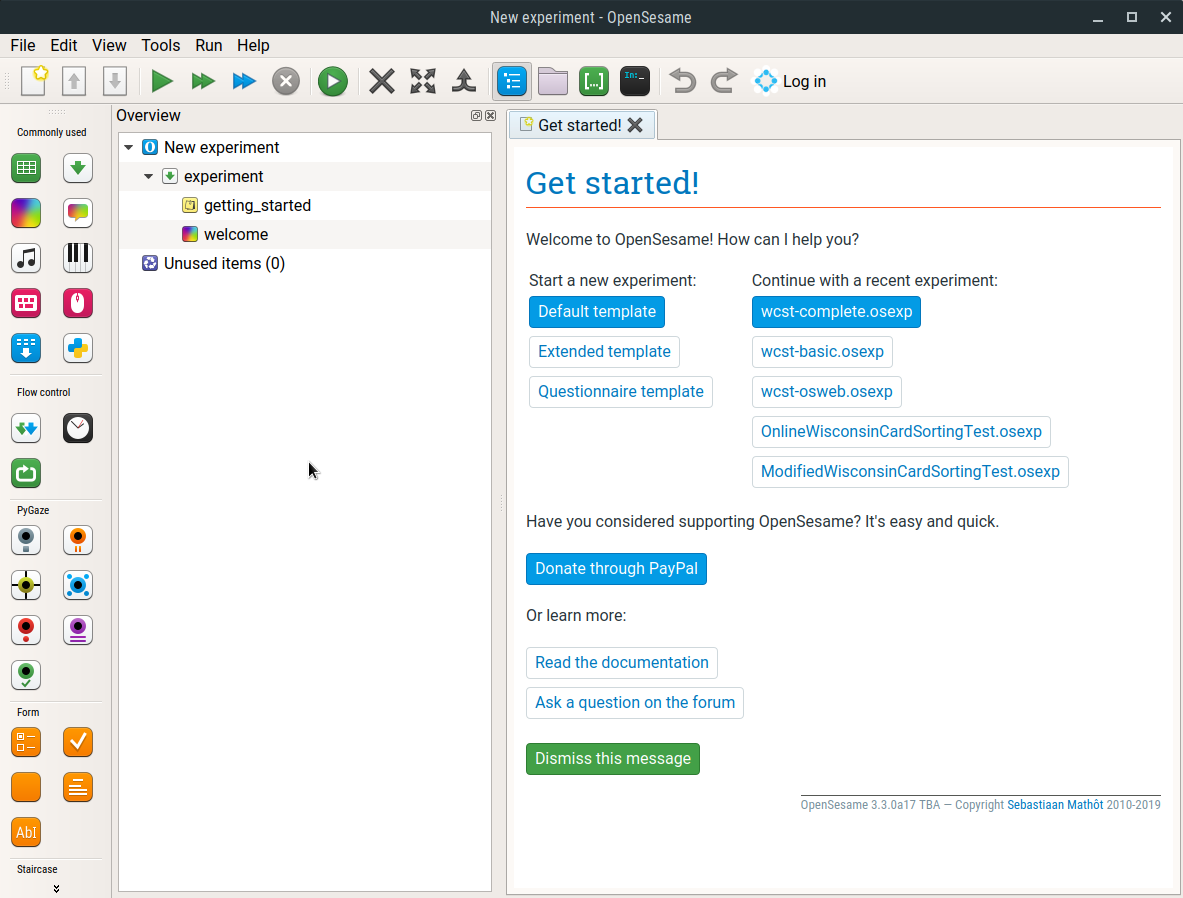
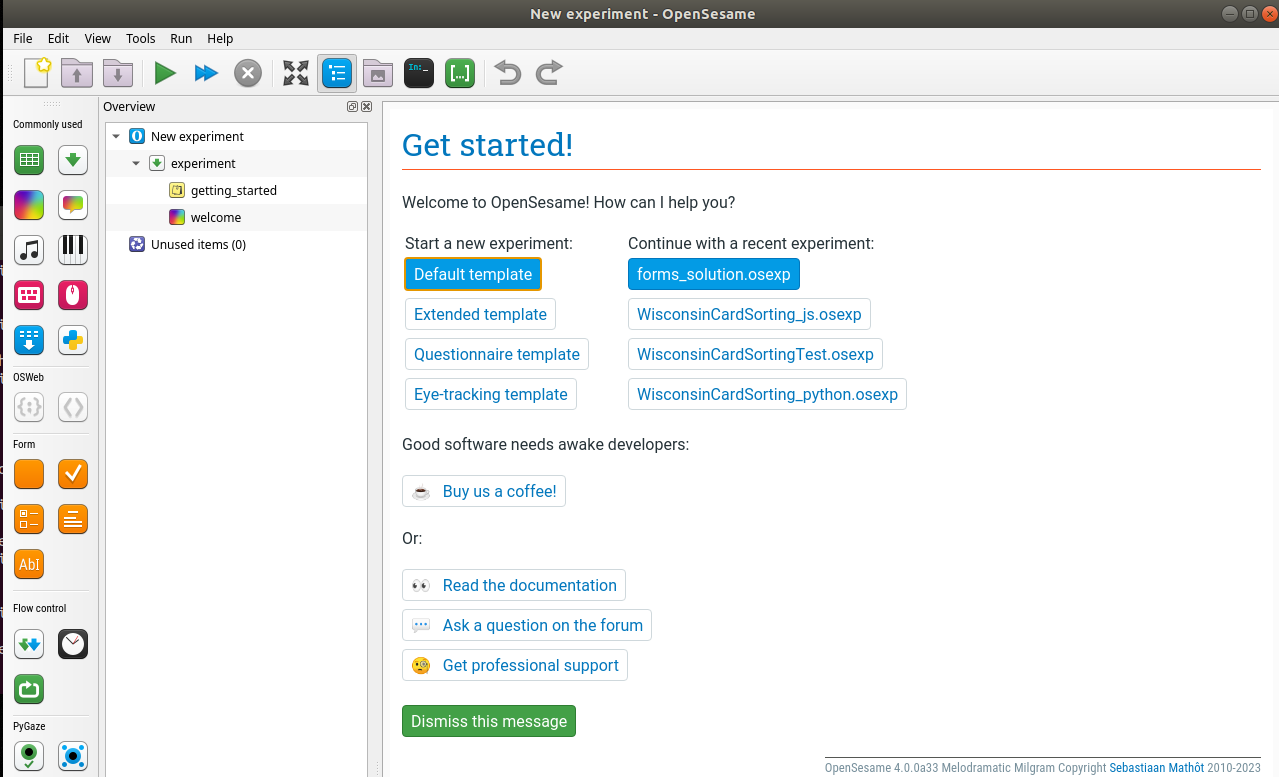
update the wcst tutorials to OS4

diff --git a/content/pages/tutorials/wcst.md b/content/pages/tutorials/wcst.md
@@ -28,7 +28,7 @@ To make things more difficult, the matching rule changes after every five correc
 
 ### Step 1: Download and start OpenSesame
 
-OpenSesame is available for Windows, Linux, and Mac OS. This tutorial is written for OpenSesame 3.2 or higher.
+OpenSesame is available for Windows, Linux, and Mac OS. This tutorial is written for OpenSesame 4.0 or higher.
 
 When you start OpenSesame, you will be given a choice of template experiments, and (if any) a list of recently opened experiments (see %FigStartUp).
 
@@ -61,7 +61,7 @@ A LOOP item needs another item to run; usually, and in this case as well, this i
 
 By default, items have names such as *new_sequence*, *new_loop*, *new_sequence_2*, etc. These names are not very informative, and it is good practice to rename them. Item names must consist of alphanumeric characters and/ or underscores. To rename an item, double-click on the item in the overview area. Rename *new_sequence* to *trial_sequence* to indicate that it will correspond to a single trial. Rename *new_loop* to *block_loop* to indicate that will correspond to a block of trials.
 
-Finally, click on 'New experiment'to open the General Properties tab. Click on the title of the experiment, and rename it to 'Wisconsin Card Sorting Test'.
+Finally, click on 'New experiment' to open the General Properties tab. Click on the title of the experiment, and rename it to 'Wisconsin Card Sorting Test'.
 
 The overview area of our experiment now looks as in %FigBasicStructure.
 
@@ -97,7 +97,7 @@ figure:
 
 To start with, we'll create a display with four stimulus cards and one response card. However, which cards are shown will not, for now, depend on variables; that is, we will create a *static* display.
 
-Drag a a SKETCHPAD into *trial_sequence*, and rename it to *card_display*. Use the image tool to draw four cards in a horizontal row somewhere near the top of the display; these will be the stimulus cards. Draw a single card near the bottom of the display; this will be the response card. Also add some text to indicate to the participant what he or she has to do, namely press `a`, `b`, `c`, or `d` to indicate which of the stimulus cards matches the response card. The exact text, layout, and cards are up to you! Tips: you can use the *scale* option to adjust the size of the cards; you can change the background color in the General Properties tab, which you can open by clicking on the top-level item of the experiment.
+Drag a SKETCHPAD into *trial_sequence*, and rename it to *card_display*. Use the image tool to draw four cards in a horizontal row somewhere near the top of the display; these will be the stimulus cards. Draw a single card near the bottom of the display; this will be the response card. Also add some text to indicate to the participant what he or she has to do, namely press `a`, `b`, `c`, or `d` to indicate which of the stimulus cards matches the response card. The exact text, layout, and cards are up to you! Tips: you can use the *scale* option to adjust the size of the cards; you can change the background color in the General Properties tab, which you can open by clicking on the top-level item of the experiment.
 
 For me, the result looks like this:
 
@@ -149,11 +149,11 @@ The script for *card_display* mostly consists of `draw` commands, which define e
 draw image center=1 file="1-blue-triangle.png" scale=0.5 show_if=always x=0 y=192 z_index=0
 ```
 
-Right now, in my example, the image file for the response card is always `"1-blue-triangle.png"`. But of course we don't always want to show a single blue triangle. Instead, we want to have the image file depend on the variables that we have defined in the *block_loop*. To do so, replace the number by `[response_number]`, the color by `[response_color]`, and the shape by `[response_shape]`: (The square brackets indicate that these refer to names of variables.)
+Right now, in my example, the image file for the response card is always `"1-blue-triangle.png"`. But of course we don't always want to show a single blue triangle. Instead, we want to have the image file depend on the variables that we have defined in the *block_loop*. To do so, replace the number by `{response_number}`, the color by `{response_color}`, and the shape by `{response_shape}`: (The curly brackets indicate that these refer to names of variables.)
 
 
 ```
-draw image center=1 file="[response_number]-[response_color]-[response_shape].png" scale=0.5 show_if=always x=0 y=192 z_index=0
+draw image center=1 file="{response_number}-{response_color}-{response_shape}.png" scale=0.5 show_if=always x=0 y=192 z_index=0
 ```
 
 Click on Apply to accept the changes to the script. The response card has now been replaced by a question-mark icon. This is because OpenSesame doesn't know how to show a preview of an image that has been defined using variables. But don't worry: the image will be shown when you run the experiment!
@@ -211,7 +211,7 @@ But this is not enough! Right now there's a single response item that assumes th
 
 To accomplish this, first create three more KEYBOARD_RESPONSE items: *press_b*, *press_c*, and *press_d*. These are all the same, except for the correct response, which is defined for each of them separately and should be respectively 'b', 'c', and 'd'.
 
-Finally, in the *trial_sequence*, use Run If statements to decide under which condition each of the four KEYBOARD_RESPONSE items should be executed (thus deciding what the correct response is). For *press_a*, the condition is that `shape1` should be equal to `response_shape`. Why? Well, because that means that the shape of the first stimulus card is equal to the shape of the response card, and in that case the correct response is 'a'. This condition corresponds to the following run-if statement: `[shape1] = [response_shape]`. The run-if statements for the other KEYBOARD_RESPONSE items are analogous (see %FigTrialSequence1).
+Finally, in the *trial_sequence*, use Run If statements to decide under which condition each of the four KEYBOARD_RESPONSE items should be executed (thus deciding what the correct response is). For *press_a*, the condition is that `shape1` should be equal to `response_shape`. Why? Well, because that means that the shape of the first stimulus card is equal to the shape of the response card, and in that case the correct response is 'a'. This condition corresponds to the following run-if statement: `shape1 = response_shape`. The run-if statements for the other KEYBOARD_RESPONSE items are analogous (see %FigTrialSequence1).
 
 
 %--
@@ -247,16 +247,7 @@ Finally, add some useful content to both SKETCHPADs. For example, for *correct_f
 You have now created a basic (but incomplete!) implementation of the Wisconsin Card Sorting Test. (You will complete the implementation as part of the Extra Assignments below.)
 
 
-%--
-figure:
- id: FigRunButtons
- source: run-buttons.png
- caption: |
-  The main toolbar contains buttons to (from left to right): run fullscreen, run in a window, quick-run (run in a window without asking for log file or participant numebr ), abort the experiment, and run in a browser.
---%
-
-
-To test the experiment, click on the quick-run button (the blue double arrows) to test the experiment on the desktop (see %FigRunButtons). If the experiment runs as expected on the desktop, click on the run-in-browser button (the arrow inside a green circle) to test the experiment in a browser.
+To test the experiment, you click either on the quick-run button (the blue double arrows) or the Run in fullscreen button (the green arrow).
 
 
 ## Extra assignments
@@ -280,14 +271,12 @@ __Pro-tip:__ Set the repeat value of the *block_loop* to 0.1 to reduce the numbe
 
 ### Extra 3 (easy): Add instructions and goodbye screen
 
-A good experiment comes with clear instructions. And a polite experiment says goodbye to the participants when they are done. You can use a SKETCHPAD to do this.
-
-__Pro-tip:__ A FORM_TEXT_DISPLAY is not compatible with OSWeb, so you should not use it for instructions if you want to run your experiment online.
-
+A good experiment comes with clear instructions. And a polite experiment says goodbye to the participants when they are done. You can use a SKETCHPAD or a FORM_TEXT_DISPLAY to do this.
 
 ### Extra 4 (medium): Set the correct response and matching rule through JavaScript
 
-To include scripting in OSWeb, you can use the INLINE_JAVASCRIPT item, which supports JavaScript. (But it does not currently provide all the functionality that is offered by the regular Python INLINE_SCRIPT!)
+To include scripting in OSWeb, you can use the INLINE_JAVASCRIPT item, which supports JavaScript. (But it does not currently provide all the functionality that is offered by the regular Python INLINE_SCRIPT!). See
+[here](https://osdoc.cogsci.nl/4.0/manual/javascript/about/) for details.
 
 So far, the matching rule is always to match by shape. To change this, add an INLINE_JAVASCRIPT item to the start of the experiment, and use the following script (in the *prepare* phase) to randomly set the variable `matching_rule` to 'shape', 'number', or 'color'.
 
@@ -295,14 +284,14 @@ So far, the matching rule is always to match by shape. To change this, add an IN
 function choice(choices) {
     // JavaScript does not have a built-in choice function, so we define it
     // here.
+    // use let to introduce a temporary new variable
     let index = Math.floor(Math.random() * choices.length)
     return choices[index]
 }
 
 
-// The vars object contains all experimental variables, like the var object
-// in Python inline script
-vars.matching_rule = choice(['shape', 'number', 'color'])
+// use var to introduce a global new variable
+var matching_rule = choice(['shape', 'number', 'color'])
 ```
 
 Now add another INLINE_JAVASCRIPT item to the start of the *trial_sequence*. In the *prepare* phase, add a script to set the `correct_response` variable to 'a', 'b', 'c', or 'd'. To do so, you need a series of `if` statements, that first look at the matching rule, and then look at which shape corresponds to the response shape (for the shape-matching rule) or which color corresponds to the response color (for the color-matching rule) etc.
@@ -310,14 +299,14 @@ Now add another INLINE_JAVASCRIPT item to the start of the *trial_sequence*. In 
 To get started, here's part of the solution (but it needs to be completed!):
 
 ```javascript
-if (vars.matching_rule === 'shape') {
-    if (vars.shape1 === vars.response_shape) vars.correct_response = 'a'
+if (matching_rule === 'shape') {
+    if (shape1 === response_shape) correct_response = 'a'
     // Not done yet
 } // Not done yet
 
 // Let's print some info to the debug window
-console.log('matching_rule = ' + vars.matching_rule)
-console.log('correct_response = ' + vars.correct_response)
+console.log('matching_rule = ' + matching_rule)
+console.log('correct_response = ' + correct_response)
 ```
 
 
@@ -340,9 +329,10 @@ This one is up to you. No pointers this time!
 
 ### Extra 7 (easy): Running the experiment online with JATOS
 
-Our WCST is compatible with OSWeb, which means that you can run it in a browser. To test if this still works, you can click on the run-in-browser button in OpenSesame.
+Our WCST is compatible with OSWeb, which means that you can run it in a browser. To test if this still works, you can select the OSWeb backend in the general properties tab of the experiment item. Once selected, 
+you can simply click the green button and the experiment will start in your default browser.
 
-However, to collect actual data with the experiment in a browser, you need to import the experiment into JATOS, and use JATOS to generate a link that you can distribute to your participants. This is much easier than it sounds! For more information, see:
+However, to collect actual data for one of your studies, you will want to import the experiment into JATOS, and use JATOS to generate a link that you can distribute to your participants. This is much easier than it sounds! For more information, see:
 
 - %link:manual/osweb/workflow%
 

diff --git a/content/pages/tutorials/wcst-python.md b/content/pages/tutorials/wcst-python.md
@@ -28,7 +28,7 @@ To make things more difficult, the matching rule changes after every five correc
 
 ### Step 1: Download and start OpenSesame
 
-OpenSesame is available for Windows, Linux, and Mac OS. This tutorial is written for OpenSesame 3.2 or higher.
+OpenSesame is available for Windows, Linux, and Mac OS. This tutorial is written for OpenSesame 4.0 or higher.
 
 When you start OpenSesame, you will be given a choice of template experiments, and (if any) a list of recently opened experiments (see %FigStartUp).
 
@@ -61,7 +61,7 @@ A LOOP item needs another item to run; usually, and in this case as well, this i
 
 By default, items have names such as *new_sequence*, *new_loop*, *new_sequence_2*, etc. These names are not very informative, and it is good practice to rename them. Item names must consist of alphanumeric characters and/ or underscores. To rename an item, double-click on the item in the overview area. Rename *new_sequence* to *trial_sequence* to indicate that it will correspond to a single trial. Rename *new_loop* to *block_loop* to indicate that will correspond to a block of trials.
 
-Finally, click on 'New experiment'to open the General Properties tab. Click on the title of the experiment, and rename it to 'Wisconsin Card Sorting Test'.
+Finally, click on 'New experiment' to open the General Properties tab. Click on the title of the experiment, and rename it to 'Wisconsin Card Sorting Test'.
 
 The overview area of our experiment now looks as in %FigBasicStructure.
 
@@ -97,7 +97,7 @@ figure:
 
 To start with, we'll create a display with four stimulus cards and one response card. However, which cards are shown will not, for now, depend on variables; that is, we will create a *static* display.
 
-Drag a a SKETCHPAD into *trial_sequence*, and rename it to *card_display*. Use the image tool to draw four cards in a horizontal row somewhere near the top of the display; these will be the stimulus cards. Draw a single card near the bottom of the display; this will be the response card. Also add some text to indicate to the participant what he or she has to do, namely press `a`, `b`, `c`, or `d` to indicate which of the stimulus cards matches the response card. The exact text, layout, and cards are up to you! Tips: you can use the *scale* option to adjust the size of the cards; you can change the background color in the General Properties tab, which you can open by clicking on the top-level item of the experiment.
+Drag a SKETCHPAD into *trial_sequence*, and rename it to *card_display*. Use the image tool to draw four cards in a horizontal row somewhere near the top of the display; these will be the stimulus cards. Draw a single card near the bottom of the display; this will be the response card. Also add some text to indicate to the participant what he or she has to do, namely press `a`, `b`, `c`, or `d` to indicate which of the stimulus cards matches the response card. The exact text, layout, and cards are up to you! Tips: you can use the *scale* option to adjust the size of the cards; you can change the background color in the General Properties tab, which you can open by clicking on the top-level item of the experiment.
 
 For me, the result looks like this:
 
@@ -149,11 +149,11 @@ The script for *card_display* mostly consists of `draw` commands, which define e
 draw image center=1 file="1-blue-triangle.png" scale=0.5 show_if=always x=0 y=192 z_index=0
 ```
 
-Right now, in my example, the image file for the response card is always `"1-blue-triangle.png"`. But of course we don't always want to show a single blue triangle. Instead, we want to have the image file depend on the variables that we have defined in the *block_loop*. To do so, replace the number by `[response_number]`, the color by `[response_color]`, and the shape by `[response_shape]`: (The square brackets indicate that these refer to names of variables.)
+Right now, in my example, the image file for the response card is always `"1-blue-triangle.png"`. But of course we don't always want to show a single blue triangle. Instead, we want to have the image file depend on the variables that we have defined in the *block_loop*. To do so, replace the number by `{response_number}`, the color by `{response_color}`, and the shape by `{response_shape}`: (The square brackets indicate that these refer to names of variables.)
 
 
 ```
-draw image center=1 file="[response_number]-[response_color]-[response_shape].png" scale=0.5 show_if=always x=0 y=192 z_index=0
+draw image center=1 file="{response_number}-{response_color}-{response_shape}.png" scale=0.5 show_if=always x=0 y=192 z_index=0
 ```
 
 Click on Apply to accept the changes to the script. The response card has now been replaced by a question-mark icon. This is because OpenSesame doesn't know how to show a preview of an image that has been defined using variables. But don't worry: the image will be shown when you run the experiment!
@@ -211,7 +211,7 @@ But this is not enough! Right now there's a single response item that assumes th
 
 To accomplish this, first create three more KEYBOARD_RESPONSE items: *press_b*, *press_c*, and *press_d*. These are all the same, except for the correct response, which is defined for each of them separately and should be respectively 'b', 'c', and 'd'.
 
-Finally, in the *trial_sequence*, use Run If statements to decide under which condition each of the four KEYBOARD_RESPONSE items should be executed (thus deciding what the correct response is). For *press_a*, the condition is that `shape1` should be equal to `response_shape`. Why? Well, because that means that the shape of the first stimulus card is equal to the shape of the response card, and in that case the correct response is 'a'. This condition corresponds to the following run-if statement: `[shape1] = [response_shape]`. The run-if statements for the other KEYBOARD_RESPONSE items are analogous (see %FigTrialSequence1).
+Finally, in the *trial_sequence*, use Run If statements to decide under which condition each of the four KEYBOARD_RESPONSE items should be executed (thus deciding what the correct response is). For *press_a*, the condition is that `shape1` should be equal to `response_shape`. Why? Well, because that means that the shape of the first stimulus card is equal to the shape of the response card, and in that case the correct response is 'a'. This condition corresponds to the following run-if statement: `shape1 = response_shape`. The run-if statements for the other KEYBOARD_RESPONSE items are analogous (see %FigTrialSequence1).
 
 
 %--
@@ -246,17 +246,7 @@ Finally, add some useful content to both SKETCHPADs. For example, for *correct_f
 
 You have now created a basic (but incomplete!) implementation of the Wisconsin Card Sorting Test. (You will complete the implementation as part of the Extra Assignments below.)
 
-
-%--
-figure:
- id: FigRunButtons
- source: run-buttons.png
- caption: |
-  The main toolbar contains buttons to (from left to right): run fullscreen, run in a window, quick-run (run in a window without asking for log file or participant numebr ), abort the experiment, and run in a browser.
---%
-
-
-To test the experiment, click on the quick-run button (the blue double arrows) to test the experiment on the desktop (see %FigRunButtons). If the experiment runs as expected on the desktop, click on the run-in-browser button (the arrow inside a green circle) to test the experiment in a browser.
+To test the experiment, click on the quick-run button (the blue double arrows) or the Run in fullscreen button (the green arrow).
 
 
 ## Extra assignments
@@ -292,7 +282,7 @@ So far, the matching rule is always to match by shape. To change this, add an IN
 ```python
 import random
 
-var.matching_rule = random.choice(['shape', 'number', 'color'])
+matching_rule = random.choice(['shape', 'number', 'color'])
 ```
 
 Now add another INLINE_SCRIPT item to the start of the *trial_sequence*. In the *prepare* phase, add a script to set the `correct_response` variable to 'a', 'b', 'c', or 'd'. To do so, you need a series of `if` statements, that first look at the matching rule, and then look at which shape corresponds to the response shape (for the shape-matching rule) or which color corresponds to the response color (for the color-matching rule) etc.
@@ -300,15 +290,15 @@ Now add another INLINE_SCRIPT item to the start of the *trial_sequence*. In the 
 To get started, here's part of the solution (but it needs to be completed!):
 
 ```python
-if var.matching_rule == 'shape':
-    if var.shape1 == var.response_shape:
-        var.correct_response = 'a'
+if matching_rule == 'shape':
+    if shape1 == response_shape:
+        correct_response = 'a'
     # Not done yet
 # Not done yet
 
 # Let's print some info to the debug window
-print('matching_rule = {}'.format(var.matching_rule))
-print('correct_response = {}'.format(var.correct_response))
+print('matching_rule = {}'.format(matching_rule))
+print('correct_response = {}'.format(correct_response))
 ```
 
 
